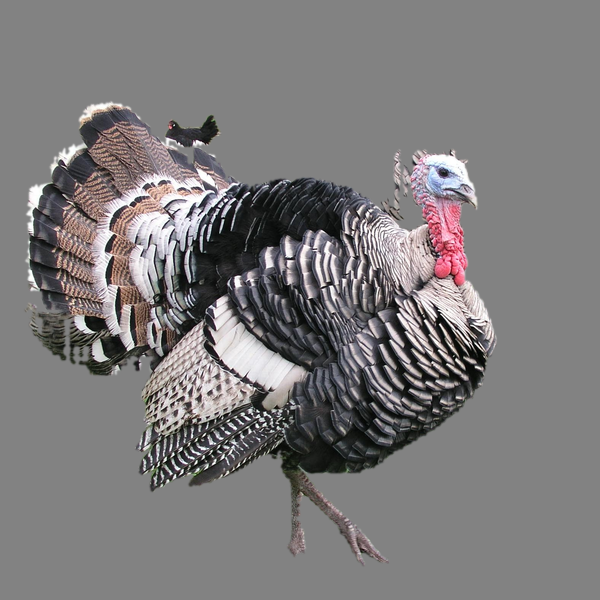
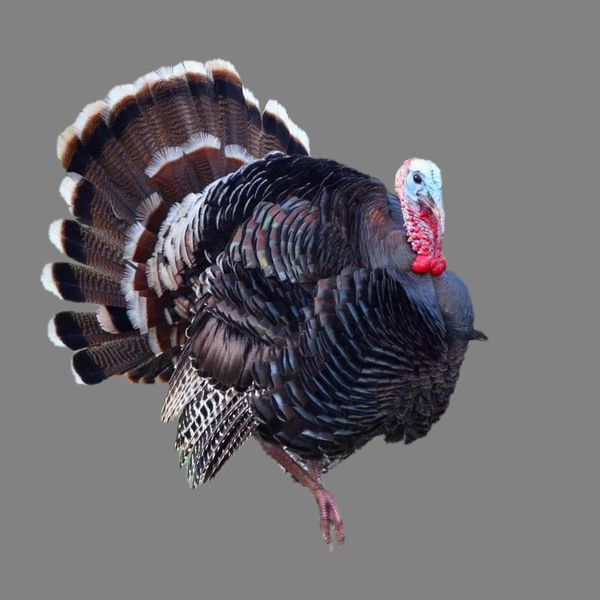
Swap turkey exemplar to turkey_11s and rerun pipeline 04-09
turkey_04s shows two overlapping birds, which gave its illustration two heads. turkey_11s is a
single bird side-on. All other stimuli are byte-identical after rerunning 04.

Changed numbers (docs/report.md updated; the shared Claude Doc is not yet updated):
- turkey-goat visual similarity photo -> cut-out .73 -> .74 becomes .68 -> .66
- pairs whose similarity rises with the cut-out: 13/16 -> 12/16; mean .72 -> .76 becomes .71 -> .76
- visual vs semantic r: photo -.37 -> -.35, cut-out -.23 -> -.15
- turkey-goat context discriminability +.32 -> +.20 (turkey background diagnosticity .91 -> .78)
- turkey-goat GBVS imbalance +.10 -> +.07 becomes +.05 -> +.03; CHS projection shift +.001

all_stimuli.png now also shows the illustration columns (09 picks up every complete format).
The turkey illustration is still the old two-headed one until the redo commit.

Claude-Session: https://claude.ai/code/session_017kg78p8Jjdrxw3AJ9ZPyJB

diff --git a/docs/report.md b/docs/report.md
@@ -69,7 +69,7 @@ audio. All 32 words have recordings for all four carrier phrases (find / where /
 | duck–chicken | duck\_01b, chicken2\_01b | +0.094 | 0.68 → 0.75 | 0.92 | 0.28 / 0.31 | −0.00 → −0.01 |
 | balloon–kite | balloon\_05s, kite\_04s | +0.093 | 0.72 → 0.76 | 0.83 | 0.06 / 0.10 | −0.36 → −0.24 |
 | squirrel–monkey | squirrel\_02s, monkey\_04s | +0.091 | 0.74 → 0.79 | 0.88 | 0.21 / 0.40 | −0.20 → −0.10 |
-| turkey–goat | turkey\_04s, goat\_02n | +0.089 | 0.73 → 0.74 | 0.86 | 0.34 / 0.35 | +0.10 → +0.07 |
+| turkey–goat | turkey\_11s, goat\_02n | +0.089 | 0.68 → 0.66 | 0.86 | 0.35 / 0.35 | +0.05 → +0.03 |
 | lizard–snake | lizard\_03n, snake\_01b | +0.079 | 0.81 → 0.84 | 0.90 | 0.12 / 0.36 | −0.22 → −0.40 |
 | truck–car | truck\_05s, car\_11s (edge) | +0.071 | 0.47 → 0.64 | 0.93 | 0.40 / 0.32 | +0.00 → +0.02 |
 | turtle–frog | turtle\_04s, frog\_02s | +0.067 | 0.81 → 0.82 | 0.89 | 0.28 / 0.42 | −0.12 → −0.23 |
@@ -95,13 +95,13 @@ The table's columns are defined as follows:
 
 ## Visual vs semantic similarity
 
-Removing the background makes 13 of 16 pairs look more alike, raising mean visual similarity from .72 to .76.
+Removing the background makes 12 of 16 pairs look more alike, raising mean visual similarity from .71 to .76.
 Truck–car moves most (.47 → .64), because its photos differ mainly in setting.
 
 - **The format manipulation also changes similarity, by a different amount per pair.** If visual similarity drives
   errors, the pairs that gain most (truck–car, crow–penguin, rabbit–hamster, camel–elephant) should get harder as
   cut-outs.
-- **As photos, semantically closer pairs looked less alike** (r = −.37). As cut-outs the relation weakens (r = −.23).
+- **As photos, semantically closer pairs looked less alike** (r = −.35). As cut-outs the relation weakens (r = −.15).
 - **CLIP text similarity is a weak semantic measure.** It sits in a narrow band (.83–.93). THINGS SPoSE would
   separate pairs better if semantic distance matters for the analysis.
 
@@ -131,8 +131,8 @@ background grabs attention. Both scores are computed from the stimuli alone, bef
 | camel–elephant | 0.76 | 0.75 | +0.51 | 0.56 / 0.67 | Large |
 | rabbit–hamster | 0.84 | 0.65 | +0.48 | 0.51 / 0.56 | Large |
 | squirrel–monkey | 0.65 | 0.82 | +0.47 | 0.48 / 0.56 | Large |
-| turkey–goat | 0.91 | 0.41 | +0.32 | 0.50 / 0.57 | Moderate |
 | acorn–coconut | 0.83 | 0.41 | +0.24 | 0.53 / 0.27 | Moderate |
+| turkey–goat | 0.78 | 0.41 | +0.20 | 0.46 / 0.57 | Moderate |
 | bulldozer–tractor | 0.45 | 0.73 | +0.18 | 0.43 / 0.31 | Small |
 | butterfly–ladybug | 0.54 | 0.64 | +0.17 | 0.45 / 0.56 | Small |
 | turtle–frog | 0.51 | 0.62 | +0.14 | 0.47 / 0.36 | Small |
